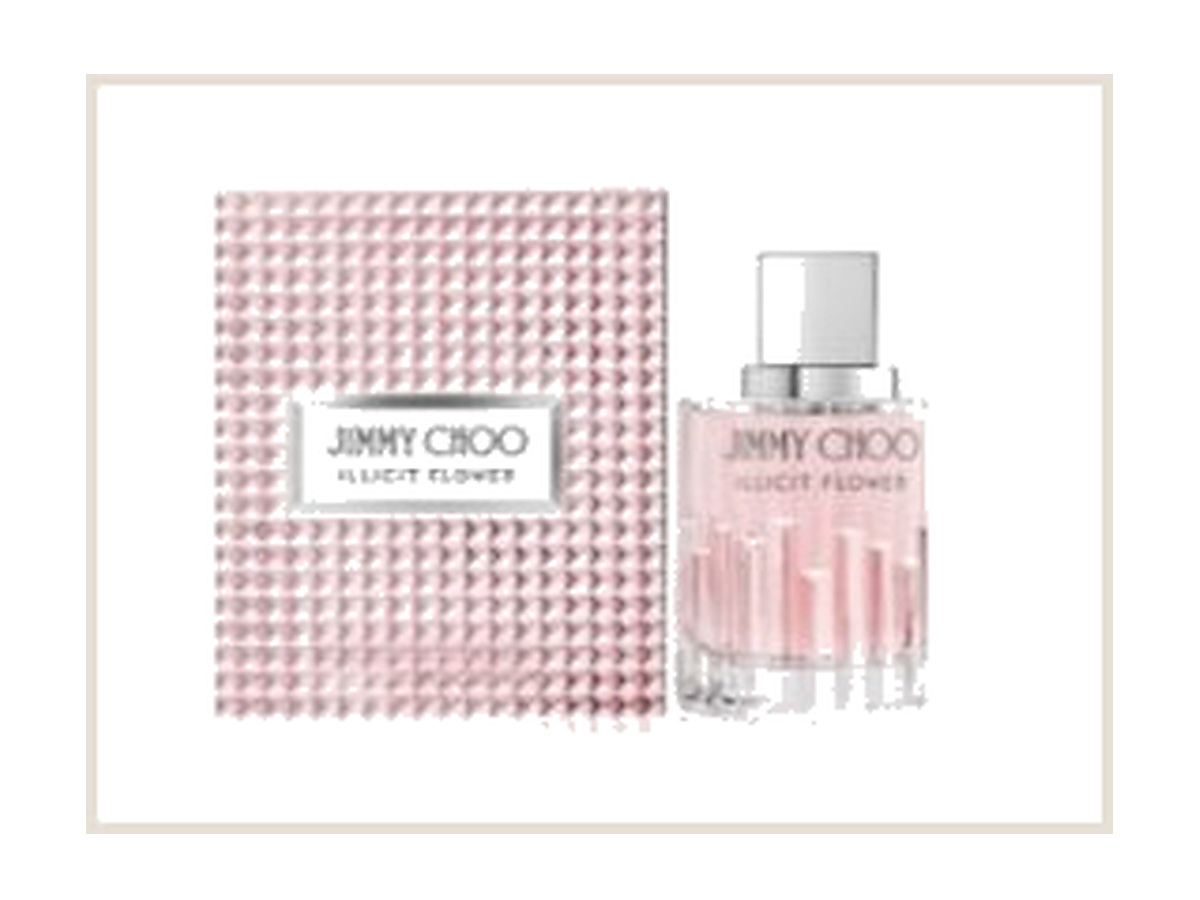
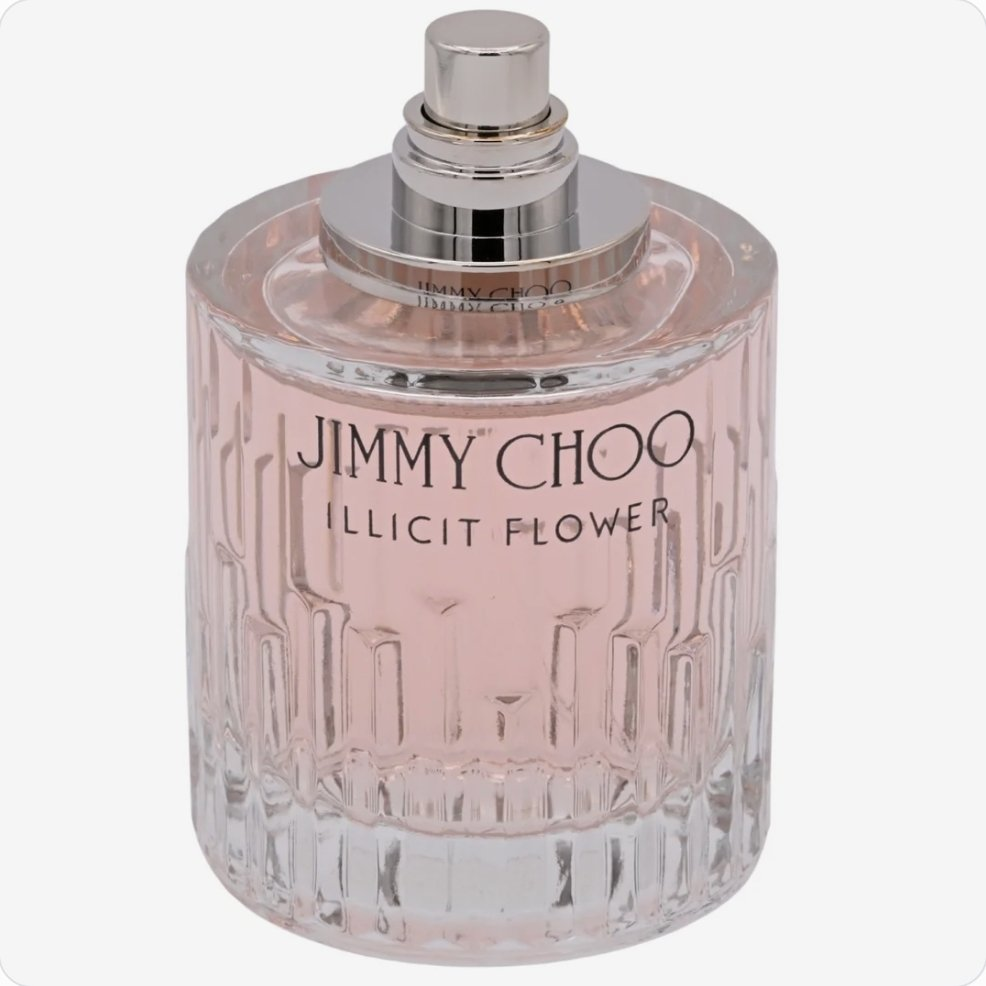
Replace Jimmy Choo Illicit Flower photos with Boss's new shots

diff --git a/index.html b/index.html
@@ -692,7 +692,7 @@
         { name:'Lattafa Asad Elixir Cologne for Men', niche:'Lattafa · Men · 3.4 oz EDP', direction:'Dark spice, lavender and amber woods', description:'Bold and concentrated, with aromatic spice, smooth lavender and a warm amber-wood finish. Widely considered a Dior Sauvage Elixir-style alternative for commanding evening wear.', category:'amber', images:[{src:'assets/product-lattafa-asad-elixir.jpg', alt:'Lattafa Asad Elixir bottle and box — clean packshot'}], price:39, decantPrice:10, originalPrice:45, featured:1, paymentLink:'https://buy.stripe.com/3cI9AV2Qx37K7G2e8Xf7i10' },
         { name:'Dumont Nitro Intense Cologne for Men', niche:'Dumont · Men · 3.4 oz EDP', direction:'Fruity freshness over smoky woods', description:'A vivid opening of fresh fruit and citrus settles into smoky woods and musk. Energetic up top, darker and more grounded through the drydown.', category:'woody', images:[{src:'assets/product-dumont-nitro-intense.jpg', alt:'Dumont Nitro Intense bottle and box — clean packshot'},{src:'assets/gallery-dumont-nitro-intense-1.jpg', alt:'Dumont Nitro Intense Cologne for Men — customer photo 1'},{src:'assets/gallery-dumont-nitro-intense-2.jpg', alt:'Dumont Nitro Intense Cologne for Men — customer photo 2'}], price:37, decantPrice:9, originalPrice:44, featured:2, paymentLink:'https://buy.stripe.com/dRmeVfdvb4bO1hE6Gvf7i11' },
         { name:'Rasasi Hawas Cologne for Men', niche:'Rasasi · Men · 3.38 oz EDP', direction:'Aquatic citrus with sweet amber', description:'Bright citrus and crisp aquatic freshness meet a lightly sweet amber-musk base. Clean, vibrant and easy to wear from daytime into the evening.', category:'fresh', images:[{src:'assets/product-rasasi-hawas.jpg', alt:'Rasasi Hawas purple bottle and box on a clean white background'},{src:'assets/product-rasasi-hawas-2.jpg', alt:'Rasasi Hawas purple bottle on a clean white background'}], price:45, decantPrice:11, originalPrice:65, featured:3 , paymentLink:'https://buy.stripe.com/7sY28t0IpaAc8K66Gvf7i12'},
-        { name:'Jimmy Choo Illicit Flower Perfume for Women', niche:'Jimmy Choo · Women · 3.3 oz EDT', direction:'Sparkling fruit, rose and soft musk', description:'A graceful fruity-floral blend with a bright opening, delicate rose and a smooth musky finish. Polished, feminine and effortless for everyday wear.', category:'fresh', images:[{src:'assets/product-jimmy-choo-illicit-flower.jpg', alt:'Jimmy Choo Illicit Flower bottle and box — clean packshot'}], price:59, decantPrice:15, originalPrice:79, featured:4 , paymentLink:'https://buy.stripe.com/dRmdRbfDjfUw4tQ9SHf7i15'},
+        { name:'Jimmy Choo Illicit Flower Perfume for Women', niche:'Jimmy Choo · Women · 3.3 oz EDT', direction:'Sparkling fruit, rose and soft musk', description:'A graceful fruity-floral blend with a bright opening, delicate rose and a smooth musky finish. Polished, feminine and effortless for everyday wear.', category:'fresh', images:[{src:'assets/product-jimmy-choo-illicit-flower.jpg', alt:'Jimmy Choo Illicit Flower bottle close-up on a clean white background'},{src:'assets/product-jimmy-choo-illicit-flower-2.jpg', alt:'Jimmy Choo Illicit Flower bottle angled view on a clean white background'},{src:'assets/product-jimmy-choo-illicit-flower-3.jpg', alt:'Jimmy Choo Illicit Flower bottle with fresh fruit styling'}], price:59, decantPrice:15, originalPrice:79, featured:4 , paymentLink:'https://buy.stripe.com/dRmdRbfDjfUw4tQ9SHf7i15'},
         { name:'Afnan 9PM Elixir Perfume for Unisex', niche:'Afnan · Unisex · 3.4 oz Parfum Intense', direction:'Aromatic spice and warm vanilla woods', description:'Deep spice and aromatic freshness lead into a rich, smooth base of vanilla-toned woods. A powerful unisex choice with a dressed-up evening feel.', category:'amber', images:[{src:'assets/product-afnan-9pm-elixir.jpg', alt:'Afnan 9PM Elixir bottle and box — clean packshot'},{src:'assets/gallery-afnan-9pm-elixir-1.jpg', alt:'Afnan 9PM Elixir Perfume for Unisex — customer photo 1'}], price:44, decantPrice:11, originalPrice:55, featured:5, paymentLink:'https://buy.stripe.com/00w7sN1Mt5fSe4q0i7f7i16' },
         { name:'Bentley Intense Cologne for Men', niche:'Bentley · Men · 3.4 oz EDP', direction:'Rum, leather and smoky woods', description:'Warm rum and spice flow into leather, incense and dark woods. Rich, confident and best suited to cool weather or an evening setting.', category:'woody', images:[{src:'assets/product-bentley-intense.jpg', alt:'Bentley Intense bottle and box on a clean white background'},{src:'assets/product-bentley-intense-2.jpg', alt:'Bentley Intense bottle on a clean white background'}], price:40, decantPrice:10, originalPrice:52, featured:6, paymentLink:'https://buy.stripe.com/bJeeVf3UBaAcbWi5Crf7i19' },
         { name:'Lattafa Pride Peace & Love Perfume for Unisex', niche:'Lattafa Pride · Unisex · 3.4 oz EDP', direction:'Soft florals, creamy woods and amber', description:'A smooth, comforting blend of luminous florals, creamy woods and mellow amber. Refined and easygoing, with a softly enveloping trail.', category:'amber', images:[{src:'assets/product-lattafa-peace-love.jpg', alt:'Lattafa Pride Peace and Love bottle and box — clean packshot'}], price:34, decantPrice:9, originalPrice:40, featured:7, paymentLink:'https://buy.stripe.com/9B66oJ2Qx6jW1hE6Gvf7i1a'},
